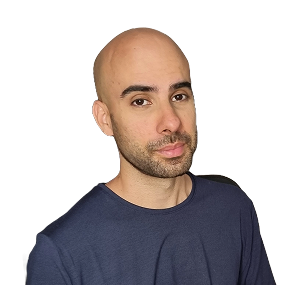
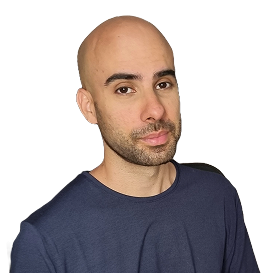
img test 123

diff --git a/styles/picture.css b/styles/picture.css
@@ -47,7 +47,7 @@
 }
 
 .trainer-small-pic-container img {
-    width: 160px;
+    width: 100px;
     height: auto;
 }
 
